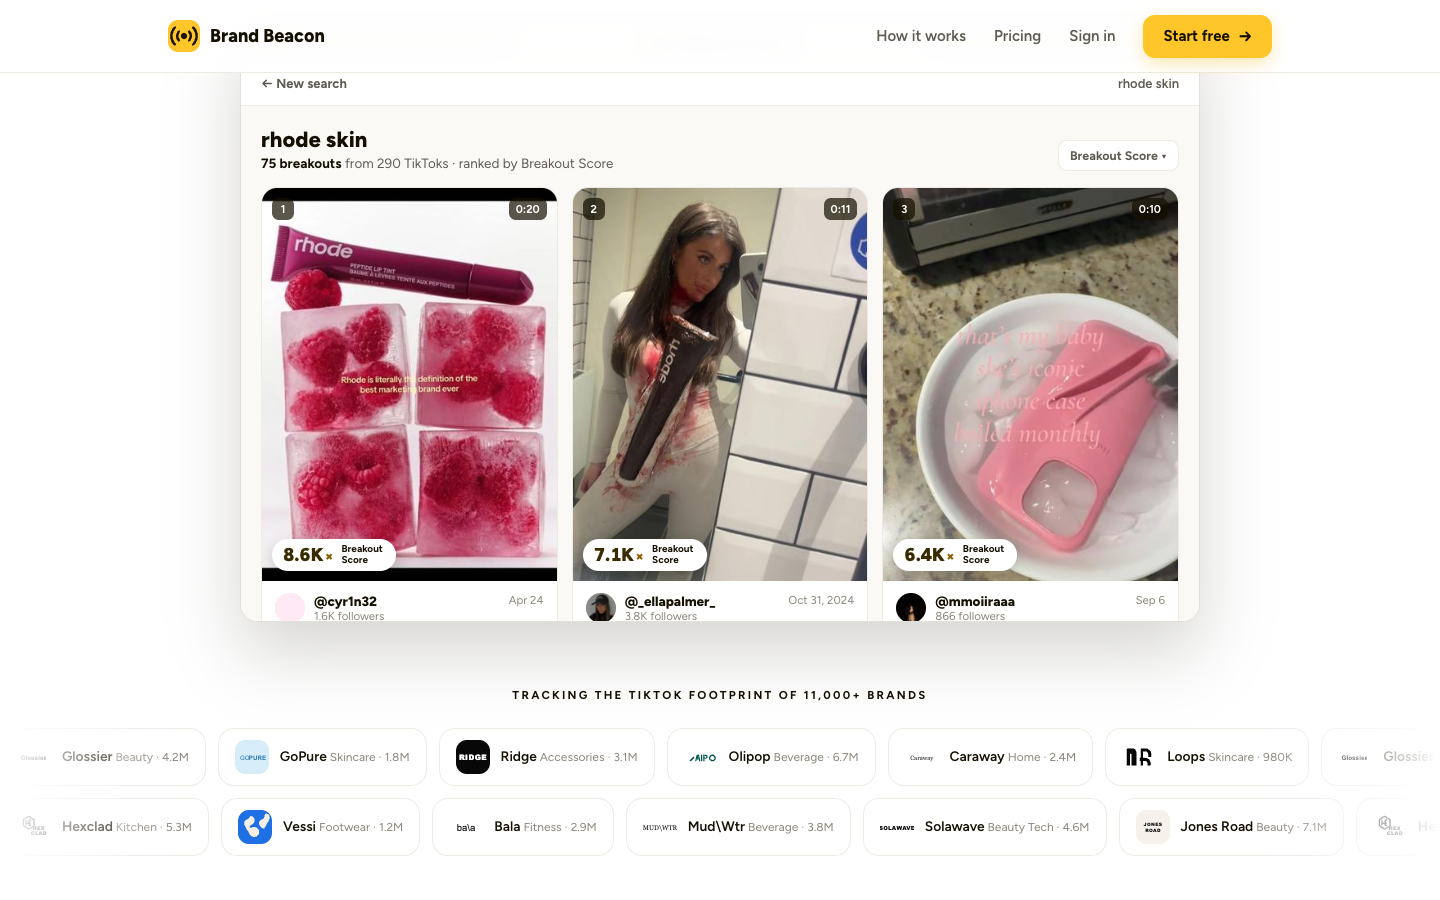
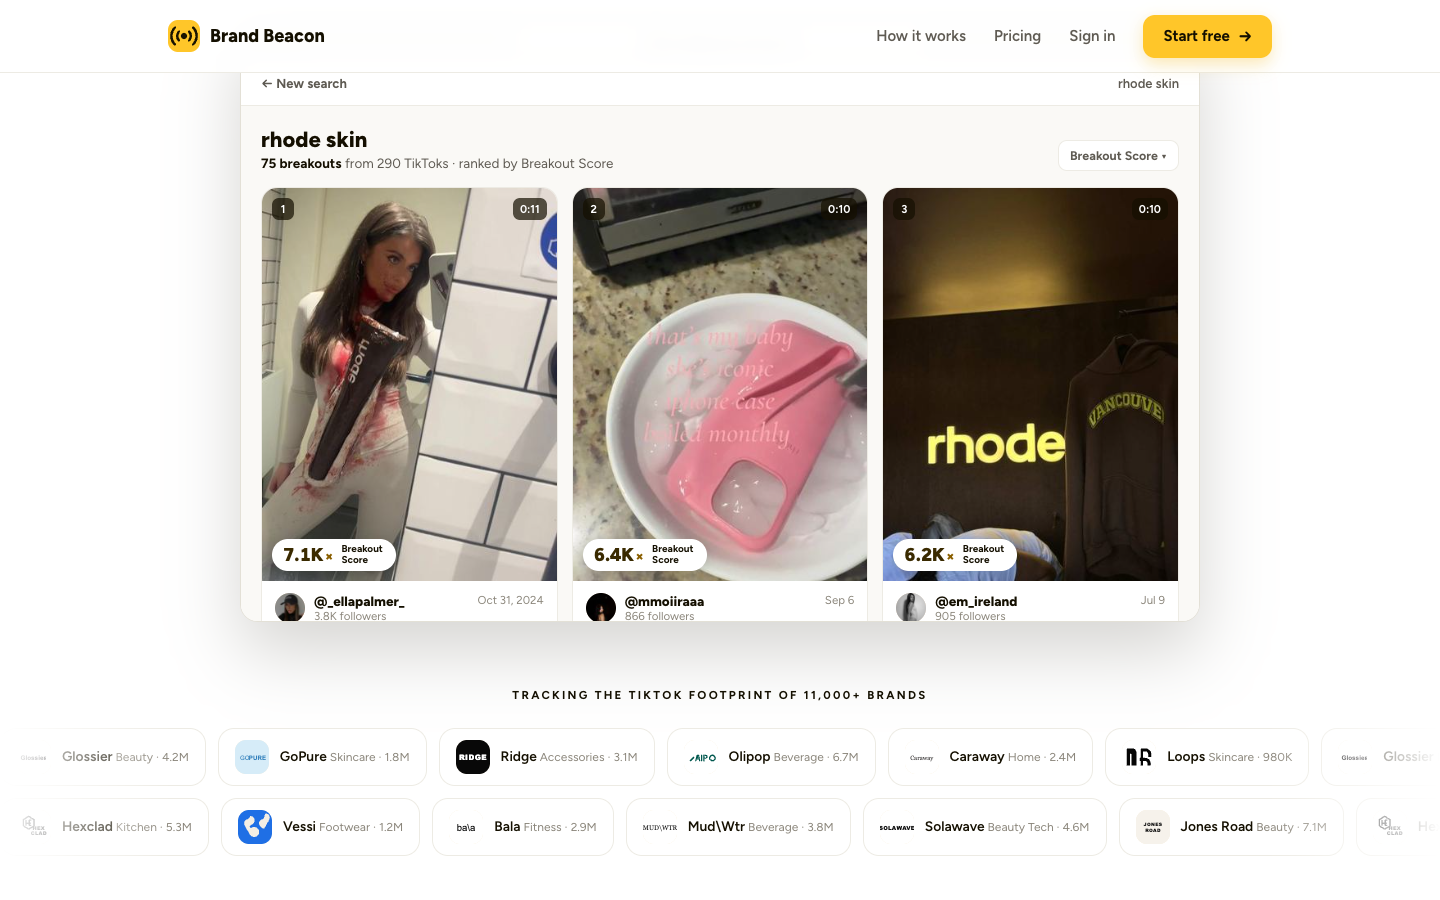
Sales page mock: drop @cyr1n32 (video deleted from TikTok); featured analysis is now @_ellapalmer_ from the live capture, next breakout fills the 24, new hero poster from the 15 Oct live results

Changed region(s): [[0.1562, 0.1867, 0.8438, 0.6844]]

diff --git a/sales-page/index.html b/sales-page/index.html
@@ -507,6 +507,8 @@ body.notes .vbelow{display:block}
 .an-copy{width:100%;height:36px;border:1px solid var(--line);background:#fff;border-radius:10px;font-size:13.5px;font-weight:600;margin-bottom:10px}
 .an-rw{display:flex;align-items:center;justify-content:space-between;gap:10px;background:#fff;border:1px solid var(--line);border-radius:10px;padding:9px 12px;margin-top:10px;font-size:13.5px}
 .an-rw button{font-size:12px;font-weight:700;color:var(--brown)}
+.an-fade{position:relative;max-height:300px;overflow:hidden}
+.an-fade:after{content:"";position:absolute;left:0;right:0;bottom:0;height:46px;background:linear-gradient(rgba(255,255,255,0),#fff)}
 .an-gate{text-align:center;padding:26px 18px}
 .an-gate h4{display:block;font-size:18px}
 .an-gate p{font-size:14px;color:var(--ink2);margin:6px auto 16px;max-width:320px;line-height:1.5}
@@ -556,7 +558,7 @@ body.notes .vbelow{display:block}
     <span class="pill">Your search is ready to run</span>
     <h3 id="gateT">“<span id="gq">rhode skin</span>”</h3>
     <p class="gs">Sign in to run it. Your first 3 searches and 5 video analyses are free.</p>
-    <div class="peek"><span><img src="img/v1.jpg" alt=""><b>Breakout</b></span><span><img src="img/v3.jpg" alt=""><b>Breakout</b></span><span><img src="img/v4.jpg" alt=""><b>Breakout</b></span></div>
+    <div class="peek"><span><img src="img/v2.jpg" alt=""><b>Breakout</b></span><span><img src="img/v3.jpg" alt=""><b>Breakout</b></span><span><img src="img/v4.jpg" alt=""><b>Breakout</b></span></div>
     <a class="gbtn" href="../bb-3/app.html#first-a"><span class="g"><svg width="18" height="18" viewBox="0 0 48 48" aria-hidden="true"><path fill="#EA4335" d="M24 9.5c3.5 0 6.6 1.2 9.1 3.6l6.8-6.8C35.8 2.4 30.3 0 24 0 14.6 0 6.6 5.4 2.7 13.3l7.9 6.1C12.5 13.6 17.8 9.5 24 9.5z"/><path fill="#4285F4" d="M46.1 24.6c0-1.6-.1-3.1-.4-4.6H24v9h12.4c-.5 2.9-2.2 5.3-4.6 6.9l7.4 5.7c4.3-4 6.9-9.9 6.9-17z"/><path fill="#FBBC05" d="M10.6 28.6c-.5-1.4-.8-3-.8-4.6s.3-3.2.8-4.6l-7.9-6.1C1 16.6 0 20.2 0 24s1 7.4 2.7 10.7l7.9-6.1z"/><path fill="#34A853" d="M24 48c6.5 0 11.9-2.1 15.9-5.8l-7.4-5.7c-2.1 1.4-4.8 2.3-8.5 2.3-6.2 0-11.5-4.1-13.4-9.9l-7.9 6.1C6.6 42.6 14.6 48 24 48z"/></svg></span>Continue with Google</a>
     <p class="alt">or <button type="button" class="useEmail">use your email</button></p>
     <form class="erow" onsubmit="location.href='../bb-3/app.html#first-a';return false"><input type="email" placeholder="you@yourbrand.com" aria-label="Your email"><button class="btn" type="submit">Continue</button></form>
@@ -710,7 +712,7 @@ body.notes .vbelow{display:block}
   <h2>One search in, Viral Breakouts out</h2>
   <div class="steps">
     <div class="stp"><span class="num">01</span><h3>Type a brand</h3><p>Yours, a competitor's, or a product you sell.</p><div class="vis"><div class="mini-inp">rhode skin</div></div></div>
-    <div class="stp"><span class="num">02</span><h3>Get hundreds of videos, ranked</h3><p>The breakouts come first. One rhode skin search found 75 in 290 TikToks.</p><div class="vis"><div class="stack"><img src="img/live/7632366172746386721-t.jpg" alt=""><img src="img/live/7432015571165744417-t.jpg" alt=""><img src="img/live/7682552825804524814-t.jpg" alt=""><img src="img/live/7660633484918033682-t.jpg" alt=""><img src="img/live/7649935410587553055-t.jpg" alt=""><span class="cnt">+70</span></div></div></div>
+    <div class="stp"><span class="num">02</span><h3>Get hundreds of videos, ranked</h3><p>The breakouts come first. One rhode skin search found 75 in 290 TikToks.</p><div class="vis"><div class="stack"><img src="img/live/7432015571165744417-t.jpg" alt=""><img src="img/live/7682552825804524814-t.jpg" alt=""><img src="img/live/7660633484918033682-t.jpg" alt=""><img src="img/live/7649935410587553055-t.jpg" alt=""><img src="img/live/7605834277904796948-t.jpg" alt=""><span class="cnt">+70</span></div></div></div>
     <div class="stp"><span class="num">03</span><h3>Learn to make your own</h3><p>Each analysis shows why a breakout worked and what to do next for your brand.</p><div class="vis"><div class="mini-an"><p><b>Why it worked</b><small>4 drivers</small></p><i style="width:92%"></i><i style="width:74%"></i><p><b>What you should do next</b></p><i style="width:84%"></i></div></div></div>
   </div>
   <div class="after"><a class="btn lg js-cta" href="#search">Run your free search <span class="arr">→</span></a></div>
@@ -797,24 +799,13 @@ body.notes .vbelow{display:block}
 <div class="vmodal" id="vmodal" role="dialog" aria-label="TikTok video"><div class="box"><button class="x" aria-label="Close">×</button><div id="vframe" style="height:100%"></div></div></div>
 <script>
 // Real results from brandbeacon.io: the rhode skin, Dr. Scholl's and CurrentBody searches (captured 15 Oct 2026)
-const LIVE=[{"id":"7632366172746386721","s":"rhode skin","h":"@cyr1n32","f":"1.6K followers","score":"8.6K×","dur":"0:20","date":"Apr 24","cap":"Name me a better marketing brand #rhode #best #aesthetic #haileybieber @Hailey Bieber @rhode skin","v":"8.9M","l":"1.7M","c":"2.5K","sh":"25K"},{"id":"7432015571165744417","s":"rhode skin","h":"@_ellapalmer_","f":"3.8K followers","score":"7.1K×","dur":"0:11","date":"Oct 31, 2024","cap":"🩸Impaled by rhode 🔪🔪🩸🔪🩸 @rhode skin @Hailey Bieber #halloween2024 #rhode #rhodelipcase #diycostume","v":"20M","l":"2.5M","c":"3.7K","sh":"192K"},{"id":"7682552825804524814","s":"rhode skin","h":"@mmoiiraaa","f":"866 followers","score":"6.4K×","dur":"0:10","date":"Sep 6","cap":"just found this out rn ngl @rhode skin #rhodephonecase #haileybieber #fyp #relatable","v":"6.1M","l":"204K","c":"345","sh":"3.7K"},{"id":"7660633484918033682","s":"rhode skin","h":"@em_ireland","f":"905 followers","score":"6.2K×","dur":"0:10","date":"Jul 9","cap":"It’s SO CUTE!! 🤎💛 #rhodehoodie #vancouverhoodie #rhodepopup #rhodehoodiesizing #limitededition @rhode skin @Hailey Bieber","v":"4.8M","l":"457K","c":"361","sh":"3.9K"},{"id":"7649935410587553055","s":"rhode skin","h":"@justemma529","f":"900 followers","score":"6K×","dur":"0:07","date":"Jun 11","cap":"the queen saved my skin thank u🫰🏻@rhode skin @Hailey Bieber #rhode #rhodeskincare #skincare","v":"4.1M","l":"632K","c":"659","sh":"5.3K"},{"id":"7605834277904796948","s":"rhode skin","h":"@jordannsagee","f":"772 followers","score":"4.2K×","dur":"0:09","date":"Feb 12","cap":"hailey bieber at george street mecca sydney!! @Hailey Bieber @rhode skin","v":"3.1M","l":"377K","c":"2.1K","sh":"11K"},{"id":"7611161983743839495","s":"rhode skin","h":"@laurenestephanny_","f":"893 followers","score":"3.6K×","dur":"0:05","date":"Feb 26","cap":"jk #fyp #viralvideo #rhode #funny #xyzbca @Hailey Bieber @rhode skin","v":"2.5M","l":"374K","c":"2.2K","sh":"39K"},{"id":"7692057826658635022","s":"rhode skin","h":"@kora.scot","f":"1K followers","score":"2.5K×","dur":"0:07","date":"Oct 2","cap":"Please why did you have to go and sell to elf…😞 #rhodeskin #inflation","v":"2.5M","l":"145K","c":"343","sh":"2.4K"},{"id":"7649209492667698445","s":"rhode skin","h":"@bricourtneyy","f":"1.2K followers","score":"1.8K×","dur":"0:08","date":"Jun 9","cap":"If he fumbles this im disowning him im literally nauseous about it #rhodesummercollection #rhodeskin #rhode #haileybieber @rhode skin #greenscreen","v":"1.7M","l":"206K","c":"676","sh":"2.4K"},{"id":"7675437551536196886","s":"rhode skin","h":"@elizaveta_beauty_","f":"3.2K followers","score":"1.8K×","dur":"0:05","date":"Aug 18","cap":"Just being honest 😂 @rhode skin #rhode#skincare#beauty#sephora#girly","v":"3.7M","l":"672K","c":"557","sh":"107K"},{"id":"7629686756895411478","s":"rhode skin","h":"@caseyjaywalsh","f":"931 followers","score":"1.2K×","dur":"0:05","date":"Apr 17","cap":"put the wrong lid on my blush and ruined it:( @rhode skin #justinbieber #haileybieber #coachella #rhode","v":"1M","l":"56K","c":"192","sh":"878"},{"id":"7694297306266455326","s":"rhode skin","h":"@kairahyang11","f":"1.8K followers","score":"1.2K×","dur":"0:10","date":"Oct 8","cap":"Best believe I’m grabbing a set!! @rhode skin #rhodeskin #rhode #haileybieber #holidaysets","v":"2.8M","l":"408K","c":"697","sh":"89K"},{"id":"7672213649234185493","s":"rhode skin","h":"@bellawoj","f":"2.3K followers","score":"1.1K×","dur":"0:08","date":"Aug 10","cap":"current rating of all my Rhode lippies!! @rhode skin 🤍#rhodeliptint #rhodereview","v":"1.9M","l":"183K","c":"328","sh":"5.9K"},{"id":"7610133460639894805","s":"rhode skin","h":"@sleeepyygirl","f":"1.1K followers","score":"1.1K×","dur":"0:19","date":"Feb 23","cap":"current obsession🤍 #rhode #haileybieber #skincare #moodboard @rhode skin @Hailey Bieber","v":"1M","l":"39K","c":"206","sh":"1K"},{"id":"7679232197068442902","s":"rhode skin","h":"@the.ericaedit","f":"1.1K followers","score":"1K×","dur":"0:06","date":"Aug 28","cap":"Cheers @rhode skin £32 pounds for acne #fyp #rhode #acne #rhodeskin","v":"1M","l":"28K","c":"102","sh":"2.1K"},{"id":"7665807781416406304","s":"rhode skin","h":"@aline.ldn","f":"2.3K followers","score":"992×","dur":"0:07","date":"Jul 23","cap":"Finally being able to shop rhode @sephora as a European >>> ; #losangeles #haileybieber #rhode #rhodeskin #rhodesianridgeback","v":"1.6M","l":"216K","c":"324","sh":"14K"},{"id":"7631725078824193310","s":"rhode skin","h":"@arimirmontazeri","f":"8.1K followers","score":"944×","dur":"0:10","date":"Apr 22","cap":"that’ll do it @Hailey Bieber @rhode skin #lipgloss #fyp #funny","v":"5.6M","l":"665K","c":"608","sh":"5K"},{"id":"7652702029457984790","s":"rhode skin","h":"@leahcandid","f":"1.4K followers","score":"942×","dur":"0:05","date":"Jun 18","cap":"@rhode skin that glazing milk looks so good I wanna drink it @Sephora UK pls restock #rhode #rhodeskin #sephora","v":"1M","l":"102K","c":"281","sh":"3.4K"},{"id":"7675310313461271830","s":"rhode skin","h":"@tamusss86","f":"2.7K followers","score":"905×","dur":"0:10","date":"Aug 18","cap":"I'm so exiteddd! #foryou #rhode #viral@rhode skin @Sephora Czech Republic","v":"1.6M","l":"283K","c":"1.3K","sh":"21K"},{"id":"7586369034757754134","s":"rhode skin","h":"@jyo_witha_thi_","f":"5.7K followers","score":"849×","dur":"0:11","date":"Dec 21, 2025","cap":"Omggggg!!! I’ve been waiting for this moment foreverrrr!!!! It’s such a cuteeee lil addition 😍🩷✨ @rhode skin @Hailey Bieber . . . #rhode #lippeptide #iphone17promax #fyp #foryoupage","v":"4.4M","l":"146K","c":"286","sh":"14K"},{"id":"7676940843554508052","s":"rhode skin","h":"@.haileyex","f":"4K followers","score":"822×","dur":"0:15","date":"Aug 22","cap":"They really have a talent for turning the most random things into trends. 😭✨ @Kylie Jenner @Kylie Cosmetics @Hailey Bieber @rhode skin #kyliejenner #haileybieber #beautytrends #viraltrends #rhode","v":"2.4M","l":"279K","c":"668","sh":"7K"},{"id":"7646864865889488141","s":"rhode skin","h":"@ceciliamicole","f":"2.5K followers","score":"784×","dur":"0:18","date":"Jun 2","cap":"effortlessly pretty is what i was trying to say i think #rhode #rhodebronzer #newrhode #rhodeskin #haileybieber","v":"1.4M","l":"170K","c":"1.6K","sh":"3.1K"},{"id":"7688771496407239958","s":"rhode skin","h":"@amberatelier","f":"3.1K followers","score":"539×","dur":"0:05","date":"Sep 23","cap":"Well, at least it looks pretty, right? . . . . . . . . . . . . . . . . . . . . . . . . . . . . . . . . . . . . . . . . . . . . . . . . #rhodeskin #cartok #relatable #funny #rhode @rhode skin","v":"1.5M","l":"59K","c":"164","sh":"159"},{"id":"7668300461455248672","s":"rhode skin","h":"@carolinafulgencio_","f":"9.6K followers","score":"501×","dur":"0:05","date":"Jul 30","cap":"trust issues, beach edition @rhode skin @Hailey Bieber #rhode #rhodeskin #beach #vilamoura #fyp","v":"4.1M","l":"252K","c":"129","sh":"760"},{"id":"7667704326613159182","s":"Dr. Scholl's","h":"@makaylasargent13","f":"7.5K followers","score":"358×","dur":"0:21","date":"Jul 28","cap":"they also come in wide calf !!! #drsbacktocampus #DrSchollsNewArrivals #fallfashion #fallboots #drscholls","v":"2.6M","l":"29K","c":"88","sh":"1.4K"},{"id":"7570361891399142670","s":"CurrentBody","h":"@by_swetha","f":"890 followers","score":"93×","dur":"0:10","date":"Nov 8, 2025","cap":"@currentbody Led series 1 face mask is on sale for $150 at Sam's club. They have several other devices on sale too. This is the best deal for led mask. highly recommend getting it #ledfacemask #currentbody #bestdeal","v":"89K","l":"1.2K","c":"30","sh":"436"}];
-// Live analysis of the top rhode skin breakout (@cyr1n32)
+const LIVE=[{"id":"7432015571165744417","s":"rhode skin","h":"@_ellapalmer_","f":"3.8K followers","score":"7.1K×","dur":"0:11","date":"Oct 31, 2024","cap":"🩸Impaled by rhode 🔪🔪🩸🔪🩸 @rhode skin @Hailey Bieber #halloween2024 #rhode #rhodelipcase #diycostume","v":"20M","l":"2.5M","c":"3.7K","sh":"192K"},{"id":"7682552825804524814","s":"rhode skin","h":"@mmoiiraaa","f":"866 followers","score":"6.4K×","dur":"0:10","date":"Sep 6","cap":"just found this out rn ngl @rhode skin #rhodephonecase #haileybieber #fyp #relatable","v":"6.1M","l":"204K","c":"345","sh":"3.7K"},{"id":"7660633484918033682","s":"rhode skin","h":"@em_ireland","f":"905 followers","score":"6.2K×","dur":"0:10","date":"Jul 9","cap":"It’s SO CUTE!! 🤎💛 #rhodehoodie #vancouverhoodie #rhodepopup #rhodehoodiesizing #limitededition @rhode skin @Hailey Bieber","v":"4.8M","l":"457K","c":"361","sh":"3.9K"},{"id":"7649935410587553055","s":"rhode skin","h":"@justemma529","f":"900 followers","score":"6K×","dur":"0:07","date":"Jun 11","cap":"the queen saved my skin thank u🫰🏻@rhode skin @Hailey Bieber #rhode #rhodeskincare #skincare","v":"4.1M","l":"632K","c":"659","sh":"5.3K"},{"id":"7605834277904796948","s":"rhode skin","h":"@jordannsagee","f":"772 followers","score":"4.2K×","dur":"0:09","date":"Feb 12","cap":"hailey bieber at george street mecca sydney!! @Hailey Bieber @rhode skin","v":"3.1M","l":"377K","c":"2.1K","sh":"11K"},{"id":"7611161983743839495","s":"rhode skin","h":"@laurenestephanny_","f":"893 followers","score":"3.6K×","dur":"0:05","date":"Feb 26","cap":"jk #fyp #viralvideo #rhode #funny #xyzbca @Hailey Bieber @rhode skin","v":"2.5M","l":"374K","c":"2.2K","sh":"39K"},{"id":"7692057826658635022","s":"rhode skin","h":"@kora.scot","f":"1K followers","score":"2.5K×","dur":"0:07","date":"Oct 2","cap":"Please why did you have to go and sell to elf…😞 #rhodeskin #inflation","v":"2.5M","l":"145K","c":"343","sh":"2.4K"},{"id":"7649209492667698445","s":"rhode skin","h":"@bricourtneyy","f":"1.2K followers","score":"1.8K×","dur":"0:08","date":"Jun 9","cap":"If he fumbles this im disowning him im literally nauseous about it #rhodesummercollection #rhodeskin #rhode #haileybieber @rhode skin #greenscreen","v":"1.7M","l":"206K","c":"676","sh":"2.4K"},{"id":"7675437551536196886","s":"rhode skin","h":"@elizaveta_beauty_","f":"3.2K followers","score":"1.8K×","dur":"0:05","date":"Aug 18","cap":"Just being honest 😂 @rhode skin #rhode#skincare#beauty#sephora#girly","v":"3.7M","l":"672K","c":"557","sh":"107K"},{"id":"7629686756895411478","s":"rhode skin","h":"@caseyjaywalsh","f":"931 followers","score":"1.2K×","dur":"0:05","date":"Apr 17","cap":"put the wrong lid on my blush and ruined it:( @rhode skin #justinbieber #haileybieber #coachella #rhode","v":"1M","l":"56K","c":"192","sh":"878"},{"id":"7694297306266455326","s":"rhode skin","h":"@kairahyang11","f":"1.8K followers","score":"1.2K×","dur":"0:10","date":"Oct 8","cap":"Best believe I’m grabbing a set!! @rhode skin #rhodeskin #rhode #haileybieber #holidaysets","v":"2.8M","l":"408K","c":"697","sh":"89K"},{"id":"7672213649234185493","s":"rhode skin","h":"@bellawoj","f":"2.3K followers","score":"1.1K×","dur":"0:08","date":"Aug 10","cap":"current rating of all my Rhode lippies!! @rhode skin 🤍#rhodeliptint #rhodereview","v":"1.9M","l":"183K","c":"328","sh":"5.9K"},{"id":"7610133460639894805","s":"rhode skin","h":"@sleeepyygirl","f":"1.1K followers","score":"1.1K×","dur":"0:19","date":"Feb 23","cap":"current obsession🤍 #rhode #haileybieber #skincare #moodboard @rhode skin @Hailey Bieber","v":"1M","l":"39K","c":"206","sh":"1K"},{"id":"7679232197068442902","s":"rhode skin","h":"@the.ericaedit","f":"1.1K followers","score":"1K×","dur":"0:06","date":"Aug 28","cap":"Cheers @rhode skin £32 pounds for acne #fyp #rhode #acne #rhodeskin","v":"1M","l":"28K","c":"102","sh":"2.1K"},{"id":"7665807781416406304","s":"rhode skin","h":"@aline.ldn","f":"2.3K followers","score":"992×","dur":"0:07","date":"Jul 23","cap":"Finally being able to shop rhode @sephora as a European >>> ; #losangeles #haileybieber #rhode #rhodeskin #rhodesianridgeback","v":"1.6M","l":"216K","c":"324","sh":"14K"},{"id":"7631725078824193310","s":"rhode skin","h":"@arimirmontazeri","f":"8.1K followers","score":"944×","dur":"0:10","date":"Apr 22","cap":"that’ll do it @Hailey Bieber @rhode skin #lipgloss #fyp #funny","v":"5.6M","l":"665K","c":"608","sh":"5K"},{"id":"7652702029457984790","s":"rhode skin","h":"@leahcandid","f":"1.4K followers","score":"942×","dur":"0:05","date":"Jun 18","cap":"@rhode skin that glazing milk looks so good I wanna drink it @Sephora UK pls restock #rhode #rhodeskin #sephora","v":"1M","l":"102K","c":"281","sh":"3.4K"},{"id":"7675310313461271830","s":"rhode skin","h":"@tamusss86","f":"2.7K followers","score":"905×","dur":"0:10","date":"Aug 18","cap":"I'm so exiteddd! #foryou #rhode #viral@rhode skin @Sephora Czech Republic","v":"1.6M","l":"283K","c":"1.3K","sh":"21K"},{"id":"7586369034757754134","s":"rhode skin","h":"@jyo_witha_thi_","f":"5.7K followers","score":"849×","dur":"0:11","date":"Dec 21, 2025","cap":"Omggggg!!! I’ve been waiting for this moment foreverrrr!!!! It’s such a cuteeee lil addition 😍🩷✨ @rhode skin @Hailey Bieber . . . #rhode #lippeptide #iphone17promax #fyp #foryoupage","v":"4.4M","l":"146K","c":"286","sh":"14K"},{"id":"7676940843554508052","s":"rhode skin","h":"@.haileyex","f":"4K followers","score":"822×","dur":"0:15","date":"Aug 22","cap":"They really have a talent for turning the most random things into trends. 😭✨ @Kylie Jenner @Kylie Cosmetics @Hailey Bieber @rhode skin #kyliejenner #haileybieber #beautytrends #viraltrends #rhode","v":"2.4M","l":"279K","c":"668","sh":"7K"},{"id":"7646864865889488141","s":"rhode skin","h":"@ceciliamicole","f":"2.5K followers","score":"784×","dur":"0:18","date":"Jun 2","cap":"effortlessly pretty is what i was trying to say i think #rhode #rhodebronzer #newrhode #rhodeskin #haileybieber","v":"1.4M","l":"170K","c":"1.6K","sh":"3.1K"},{"id":"7688771496407239958","s":"rhode skin","h":"@amberatelier","f":"3.1K followers","score":"539×","dur":"0:05","date":"Sep 23","cap":"Well, at least it looks pretty, right? . . . . . . . . . . . . . . . . . . . . . . . . . . . . . . . . . . . . . . . . . . . . . . . . #rhodeskin #cartok #relatable #funny #rhode @rhode skin","v":"1.5M","l":"59K","c":"164","sh":"159"},{"id":"7668300461455248672","s":"rhode skin","h":"@carolinafulgencio_","f":"9.6K followers","score":"501×","dur":"0:05","date":"Jul 30","cap":"trust issues, beach edition @rhode skin @Hailey Bieber #rhode #rhodeskin #beach #vilamoura #fyp","v":"4.1M","l":"252K","c":"129","sh":"760"},{"id":"7673427962720472342","s":"rhode skin","h":"@bunnyshuhui","f":"6.5K followers","score":"444×","dur":"0:11","date":"Aug 13","cap":"@rhode skin pocket blush sleepy girl @Rare Beauty liquid blush encourage @Saie dew blush lady @Makeup By Mario soft pop blush stick dusty rose Not a paid partnership #blush #rhode #makeup #blushreview #rarebeauty","v":"3M","l":"105K","c":"196","sh":"3.1K"},{"id":"7667704326613159182","s":"Dr. Scholl's","h":"@makaylasargent13","f":"7.5K followers","score":"358×","dur":"0:21","date":"Jul 28","cap":"they also come in wide calf !!! #drsbacktocampus #DrSchollsNewArrivals #fallfashion #fallboots #drscholls","v":"2.6M","l":"29K","c":"88","sh":"1.4K"},{"id":"7570361891399142670","s":"CurrentBody","h":"@by_swetha","f":"890 followers","score":"93×","dur":"0:10","date":"Nov 8, 2025","cap":"@currentbody Led series 1 face mask is on sale for $150 at Sam's club. They have several other devices on sale too. This is the best deal for led mask. highly recommend getting it #ledfacemask #currentbody #bestdeal","v":"89K","l":"1.2K","c":"30","sh":"436"}];
+// Live analysis of the top rhode skin breakout (@_ellapalmer_), word for word from the capture
 const WHY=[
- ['Engagement Challenge','The video opens with a direct challenge that invites viewers to participate by naming a better brand, boosting comments and shares.'],
- ['Trend-Driven Hashtags','Using popular and relevant hashtags like #rhode and #haileybieber increases the video’s reach and discoverability among interested audiences.'],
- ['Celebrity Association','Tagging Hailey Bieber and Rhode Skin leverages their fanbase and credibility to enhance trust and interest in the content.'],
- ['Concise and Confident Delivery','The short, punchy line delivers a strong statement that holds attention and encourages viewers to engage quickly.']
+ ['Immediate Visual Shock',"The video opens with a striking visual that matches the hook's promise, grabbing attention instantly and encouraging continued viewing."],
+ ['Celebrity Association','Mentioning @Hailey Bieber and @rhode skin connects the content to recognizable figures, boosting credibility and shareability.'],
+ ['Seasonal Relevance','The Halloween theme aligns with current seasonal interests, increasing the likelihood of shares and']
 ];
-const NEXT=[
- ['Open with a direct challenge','Start with a bold claim or question that viewers want to answer in the comments.'],
- ['Use relevant hashtags and mentions','Tag the brand and the names its fans already follow.']
-];
-const STOP=[
- ['Countable Promise','It challenges viewers to think of a better example, triggering curiosity and engagement.'],
- ['Direct Address','Speaking directly to the audience creates a personal connection and compels attention.'],
- ['Open Loop','The question sets up an unresolved challenge that encourages viewers to watch or comment to respond.']
-];
-const SWIPE=['Can you name a marketing brand better than this?'];
 const $=s=>document.querySelector(s);
 const esc=t=>t.replace(/[&<>"]/g,c=>({'&':'&amp;','<':'&lt;','>':'&gt;','"':'&quot;'}[c]));
 const capH=t=>esc(t).replace(/([#@][\w.À-ɏ]+)/g,'<em>$1</em>');
@@ -865,19 +856,10 @@ function openRO(i){
   const side=`<div class="an-side">${card(v,{rank:i+1,noAct:true})}${i===0?`<div class="an-ok">${IC.ok} Analysis ready</div><div class="an-sh">${IC.sh} Share with your team and creators</div>`:''}</div>`;
   const right=i===0?`<div><p class="an-q">“${capH(v.cap)}”</p>
     <div class="an-ban"><span>ⓘ</span><span><b>${v.score} Breakout Score:</b> how far this video beat ${esc(v.h)}'s average video.</span></div>
-    <div class="an-tabs" id="roTabs"><button class="on" data-t="why">Why it went viral</button><button data-t="hook">Hook</button></div>
-    <div id="tWhy"><div class="an-box"><h4>Why it worked <small>${WHY.length} drivers</small></h4>${list(WHY,1)}</div>
-      <div class="an-box"><h4>What could be improved</h4><p class="an-mt">Nothing measurable held this video back.</p></div>
-      <div class="an-box cream"><h4>What you should do next</h4>${list(NEXT,1)}</div></div>
-    <div id="tHook" style="display:none"><div class="an-box an-hook"><img src="${img(v,'t')}" alt=""><b>“Name me a better marketing brand”</b></div>
-      <button class="an-copy" type="button" data-copy="Name me a better marketing brand">⧉ Copy hook for a brief</button>
-      <div class="an-box"><h4>Why it stops the scroll <small>${STOP.length} reasons</small></h4>${list(STOP,0)}</div>
-      <div class="an-box cream"><h4>Swipe this hook</h4>${SWIPE.map(t=>`<div class="an-rw"><span>${esc(t)}</span><button type="button" data-copy="${esc(t)}">Copy</button></div>`).join('')}</div></div></div>`
+    <div class="an-box an-fade"><h4>Why it worked <small>4 drivers</small></h4>${list(WHY,1)}</div></div>`
    :`<div class="an-box an-gate"><h4>Analyze this video</h4><p>See why ${esc(v.h)}'s video broke out and what to do next for your brand. Free includes 5 video analyses.</p>
       <a class="gbtn" href="../bb-3/app.html#home-checklist"><span class="g">${$('#signin .gbtn .g').innerHTML}</span>Sign in free to analyze</a></div>`;
   $('#ro').innerHTML=`<div class="an">${side}${right}</div>`;
-  const tabs=$('#roTabs');if(tabs)tabs.onclick=e=>{const b=e.target.closest('button');if(!b)return;tabs.querySelectorAll('button').forEach(x=>x.classList.toggle('on',x===b));
-    $('#tWhy').style.display=b.dataset.t==='why'?'':'none';$('#tHook').style.display=b.dataset.t==='hook'?'':'none'};
   go('s4');
 }
 document.addEventListener('click',e=>{const b=e.target.closest('[data-copy]');if(!b)return;try{navigator.clipboard.writeText(b.dataset.copy)}catch(x){}const t=b.textContent;b.textContent='Copied';setTimeout(()=>b.textContent=t,1200)});
